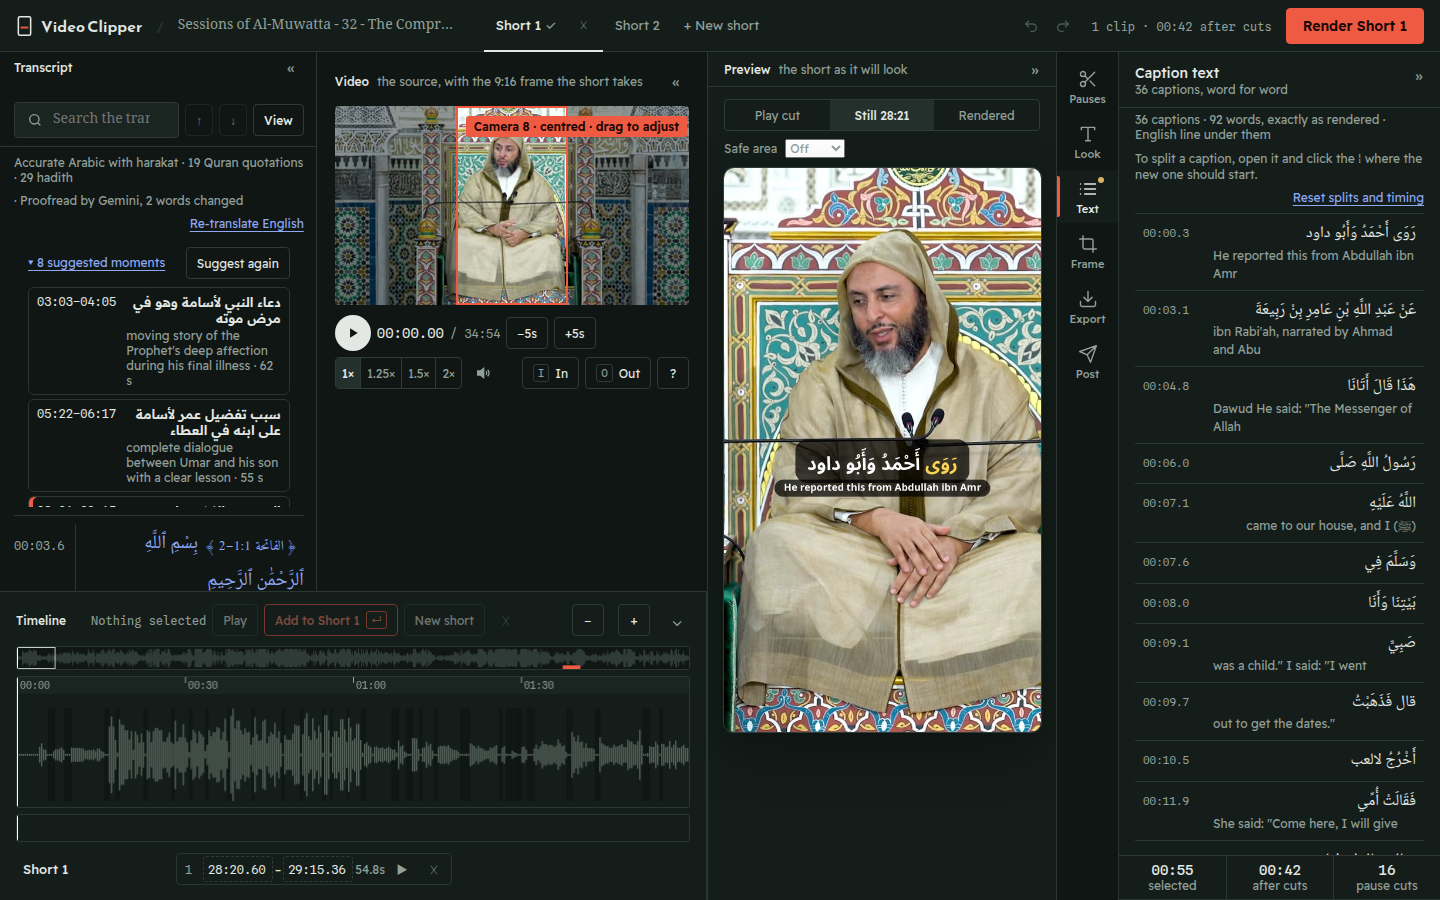
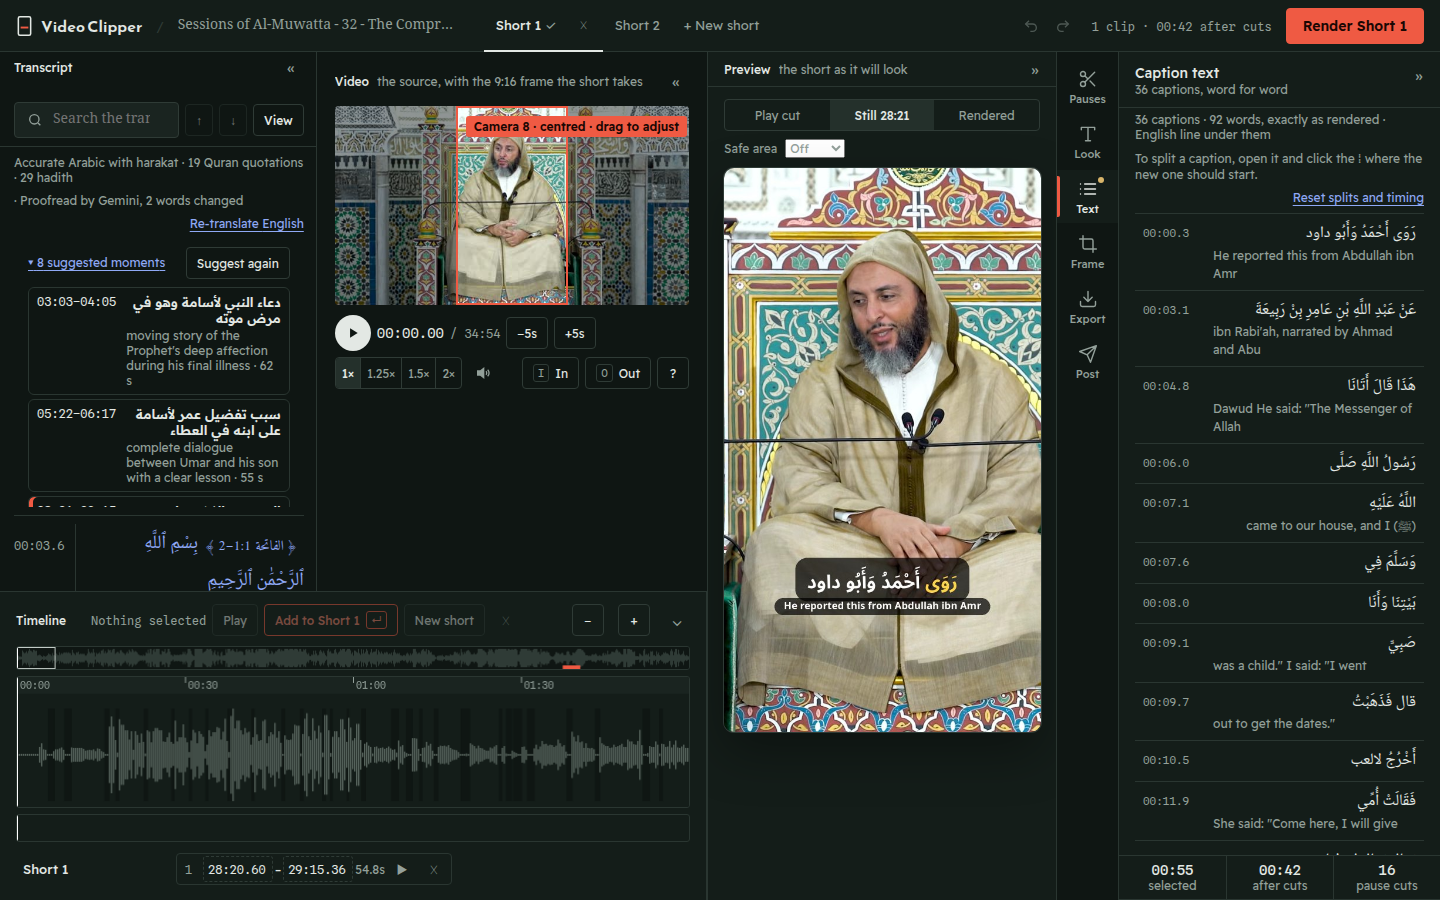
A None option for captions, captions at -33 by default, your own style for new shorts, and new README and landing images
- Captions menu at the top of Look: None renders just the clip and needs no transcript; the empty transcript screen links to it
- The built-in styles put captions a third of the way below the centre (-33)
- A video's first short starts with your saved style when you have one
- README and landing screenshots, editor GIF and the landing page's editor picture taken from the current app

Changed region(s): [[0.5312, 0.4667, 0.6875, 0.56], [0.5312, 0.5911, 0.6875, 0.6844]]

diff --git a/web/src/panels.tsx b/web/src/panels.tsx
@@ -560,7 +560,21 @@ export function CaptionsPanel({ ed, compact }: { ed: Ed; compact?: boolean }) {
 
   return (
     <div className="panel">
-      <label className="check"><input type="checkbox" checked={s.captions} onChange={(e) => ed.update({ captions: e.target.checked })} />Burn in captions</label>
+      <label className="field">Captions
+        <select value={!s.captions ? "none" : s.caption_lang2 ? "both" : s.caption_lang ?? "original"}
+          onChange={(e) => ed.update(e.target.value === "none" ? { captions: false }
+            : e.target.value === "both" ? { captions: true, caption_lang: "original", caption_lang2: ed.translationLang }
+            : { captions: true, caption_lang: e.target.value, caption_lang2: null })}>
+          <option value="none">None: just the clip, no transcript needed</option>
+          <option value="original">As spoken ({ed.translationLang === "en" ? "Arabic" : "English"})</option>
+          <option value={ed.translationLang} disabled={!ed.translation}>
+            {ed.translationLang === "en" ? "English" : "Arabic"} translation{ed.translation ? "" : " (translate the transcript first)"}
+          </option>
+          <option value="both" disabled={!ed.translation}>
+            Both: {ed.translationLang === "en" ? "Arabic, English under it" : "English, Arabic under it"}{ed.translation ? "" : " (translate first)"}
+          </option>
+        </select>
+      </label>
       {!compact && <h4 className="group-head first">Style</h4>}
       <div className="presets" role="radiogroup" aria-label="Caption style">
         {names.map((n) => (
@@ -578,27 +592,13 @@ export function CaptionsPanel({ ed, compact }: { ed: Ed; compact?: boolean }) {
         <HeightSlider label="Name plate height" y={plate.y} onChange={(y) => patchTitle({ y })} />
         <label className="field">Name plate size {plate.size}<input type="range" min={24} max={80} step={2} value={plate.size} onChange={(e) => patchTitle({ size: +e.target.value })} /></label>
       </>}
-      <HeightSlider label="Caption height" y={cap.y} onChange={(y) => patch({ y })} />
-      {!compact && <h4 className="group-head">Text</h4>}
-      <label className="field">Caption language
-        <select value={s.caption_lang2 ? "both" : s.caption_lang ?? "original"}
-          onChange={(e) => ed.update(e.target.value === "both"
-            ? { caption_lang: "original", caption_lang2: ed.translationLang }
-            : { caption_lang: e.target.value, caption_lang2: null })}>
-          <option value="original">As spoken ({ed.translationLang === "en" ? "Arabic" : "English"})</option>
-          <option value={ed.translationLang} disabled={!ed.translation}>
-            {ed.translationLang === "en" ? "English" : "Arabic"} translation{ed.translation ? "" : " (translate the transcript first)"}
-          </option>
-          <option value="both" disabled={!ed.translation}>
-            Both: {ed.translationLang === "en" ? "Arabic, English under it" : "English, Arabic under it"}{ed.translation ? "" : " (translate first)"}
-          </option>
-        </select>
-      </label>
-      <label className="check" title={s.captions ? "While a recognised Quran verse is quoted, a small line above the captions names the surah and the ayah being recited" : "Shown above the captions, so it needs Burn in captions"}>
-        <input type="checkbox" disabled={!s.captions} checked={s.captions && (s.quran_tag ?? true)} onChange={(e) => ed.update({ quran_tag: e.target.checked })} />
+      {s.captions && <HeightSlider label="Caption height" y={cap.y} onChange={(y) => patch({ y })} />}
+      {!compact && s.captions && <h4 className="group-head">Text</h4>}
+      {s.captions && <label className="check" title="While a recognised Quran verse is quoted, a small line above the captions names the surah and the ayah being recited">
+        <input type="checkbox" checked={s.quran_tag ?? true} onChange={(e) => ed.update({ quran_tag: e.target.checked })} />
         Show surah and ayah when a verse is quoted
-      </label>
-      {(s.caption_lang ?? "original") === "original" && <label className="field">Harakat (tashkeel) in captions
+      </label>}
+      {s.captions && (s.caption_lang ?? "original") === "original" && <label className="field">Harakat (tashkeel) in captions
         <select value={s.harakat ?? "all"} onChange={(e) => ed.update({ harakat: e.target.value as "all" | "quran" | "none" })}>
           <option value="all">Show everywhere</option>
           <option value="quran">Only in Quran quotations</option>

diff --git a/web/src/Editor.tsx b/web/src/Editor.tsx
@@ -166,7 +166,8 @@ export function Editor({ lectureId, mode, shortId }: { lectureId: string; mode: 
       let pick = byId(initialShort.current) ?? byId(lastShort(lectureId))
         ?? [...list].filter((s) => !isEmpty(s)).sort((a, b) => b.created - a.created)[0] ?? list.find(isEmpty);
       if (!pick) {
-        pick = await api.createShort(lectureId, defaultSettings("Short 1"));
+        const own = Object.keys((await api.styles().catch(() => null))?.custom ?? {})[0];
+        pick = await api.createShort(lectureId, defaultSettings("Short 1", own));
         list = [...list, pick];
       }
       setShorts(list);
@@ -307,7 +308,8 @@ export function Editor({ lectureId, mode, shortId }: { lectureId: string; mode: 
       },
       selectShort: (id) => go({ page: "editor", lecture: lectureId, mode, short: id }),
       newShort: async (ranges = []) => {
-        const settings = { ...defaultSettings(`Short ${visible.filter((s) => !isEmpty(s)).length + 1}`), ranges,
+        const own = Object.keys(styles?.custom ?? {})[0];
+        const settings = { ...defaultSettings(`Short ${visible.filter((s) => !isEmpty(s)).length + 1}`, own), ranges,
           ...(current ? { style: current.style, style_data: current.style_data, title: current.title } : {}) };
         // reuse an empty draft instead of piling up new ones
         const draft = shorts.find((s) => isEmpty(s) && s.id !== current?.id);

diff --git a/web/src/Workspace.tsx b/web/src/Workspace.tsx
@@ -674,7 +674,9 @@ function TranscriptPanel({ ed, time, playing, sel, onSelect, seek, play, folded,
             {ed.transcribeError && <p className="small err-text" role="alert">Transcription stopped. {ed.transcribeError}</p>}
             <button type="button" className="btn primary" onClick={() => ed.transcribe()}>{ed.transcribeError ? "Try again" : "Transcribe video"}</button>
           </>)}
-          <p className="muted small">You can already pick moments on the timeline; captions for your clips are transcribed when you render.</p>
+          <p className="muted small">You can already pick moments on the timeline. {ed.short?.captions !== false
+            ? <>Captions for your clips are transcribed when you render, or <button type="button" className="link" onClick={() => ed.update({ captions: false })}>render without captions</button> and no transcript is needed.</>
+            : <>This short has no captions, so it renders without a transcript.</>}</p>
         </div>
       ) : (
         <>

diff --git a/web/src/api.ts b/web/src/api.ts
@@ -184,8 +184,8 @@ const json = (body: unknown, method = "POST"): RequestInit => ({
   method, headers: { "content-type": "application/json" }, body: JSON.stringify(body),
 });
 
-export const defaultSettings = (name = "Short 1"): ShortSettings => ({
-  name, ranges: [], title: null, style: "pill", style_data: null, min_gap: 0.4,
+export const defaultSettings = (name = "Short 1", style = "pill"): ShortSettings => ({
+  name, ranges: [], title: null, style, style_data: null, min_gap: 0.4,
   transition: "morph", transition_frames: 4, zoom: 1, grade: false, captions: true, speed: 1, harakat: "all", quran_tag: true,
   even_volume: true,
 });

diff --git a/shorts/captions.py b/shorts/captions.py
@@ -51,21 +51,23 @@ class Style:
     title: TextStyle
 
 
+CAPTION_Y = 0.83  # captions sit a third of the way below the centre (-33 on the height slider)
+
 PRESETS: dict[str, Style] = {
     # dark translucent box, like the reference short
-    "box": Style(TextStyle(),
+    "box": Style(TextStyle(y=CAPTION_Y),
                  TextStyle(size=44, color="#FFD54A", box_opacity=0.55, radius=10,
                            pad_x=22, pad_y=10, y=0.60)),
     # rounded pill, spoken word highlighted
-    "pill": Style(TextStyle(radius=40, box_opacity=0.72, pad_x=40, pad_y=18, highlight="#FFD54A"),
+    "pill": Style(TextStyle(radius=40, box_opacity=0.72, pad_x=40, pad_y=18, highlight="#FFD54A", y=CAPTION_Y),
                   TextStyle(size=42, color="#111111", box_color="#FFD54A", box_opacity=1.0,
                             radius=30, pad_x=28, pad_y=10, y=0.60)),
     # no box, thick outline (classic shorts look)
     "outline": Style(TextStyle(size=76, box=False, outline=7, shadow=6, highlight="#FFD54A",
-                               max_words=2, max_chars=16),
+                               max_words=2, max_chars=16, y=CAPTION_Y),
                      TextStyle(size=44, color="#FFD54A", box=False, outline=5, y=0.60)),
     # quiet: soft shadow only
-    "minimal": Style(TextStyle(size=60, box=False, shadow=10),
+    "minimal": Style(TextStyle(size=60, box=False, shadow=10, y=CAPTION_Y),
                      TextStyle(size=40, color="#E8E8E8", box=False, shadow=8, y=0.60)),
 }
 

diff --git a/README.md b/README.md
@@ -13,7 +13,7 @@ also get Quran and hadith quotations recognised and corrected.
 
 ![The editor in use: the cut played in the preview, the transcript and the settings folded away and brought back, a caption opened](docs/screenshots/editor.gif)
 
-![The editor on another lecture, with the caption look settings and the TikTok safe area shown on the preview](docs/screenshots/editor-ar.png)
+![The editor on an English talk by another speaker, with the caption look settings (captions as spoken, your own style picked) and the TikTok safe area shown on the preview](docs/screenshots/editor-ar.png)
 
 Needs `ffmpeg` (NVENC is used when available), Pillow built with raqm and
 Node 18+ for the web app. `./install.sh` installs the Python packages: with
@@ -97,6 +97,11 @@ light CPU setting is used, and the render log says which. To run in the foregrou
   cuts, caption style, name plate and caption height, zoom in or out, grade,
   export speed) update a live 9:16 preview;
   **Render** runs in the background and the result plays and downloads in place.
+- **Captions** (under Look): as spoken, the translation, both, or **None**,
+  which renders just the clip and needs no transcript at all. They sit at
+  −33 on the height slider (a third of the way below the centre) unless your
+  style says otherwise, and a new short starts with your own saved style when
+  you have one.
 - **Accurate Arabic**: Arabic lectures are transcribed with Whisper for the
   word timings, then the audio is re-read by
   [Cohere Transcribe Arabic](https://huggingface.co/CohereLabs/cohere-transcribe-arabic-07-2026)
